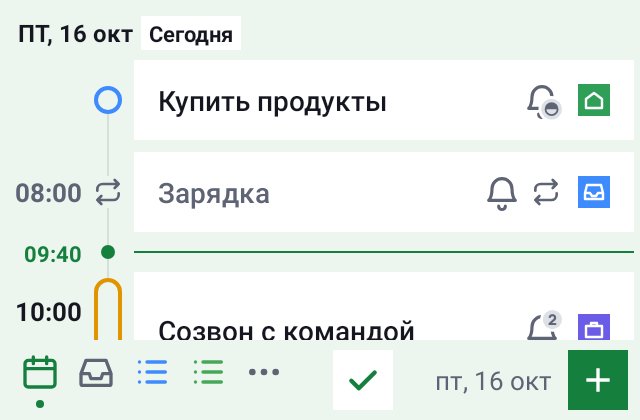
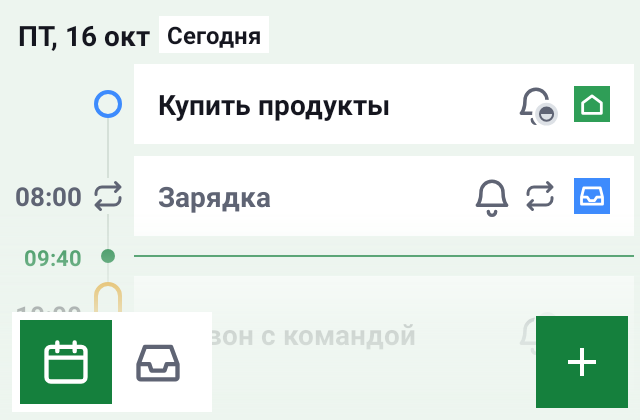
Итерация 25: нижняя панель и текст виджета (0.25.0)
- Панель поверх списка с переходом от прозрачного к фону; капсула «Все» / «Входящие» и «+»
- Центр панели открывает приложение; дата, «⋯» и вкладки списков убраны
- Названия задач жирнее, даты групп и иконки в плашках крупнее

Claude-Session: https://claude.ai/code/session_01QAFyQLGgofusGNVqbtBoAp

diff --git a/app/src/main/java/com/prostovasei/simpletasks/widget/TasksWidget.kt b/app/src/main/java/com/prostovasei/simpletasks/widget/TasksWidget.kt
@@ -36,6 +36,8 @@ import androidx.glance.layout.height
 import androidx.glance.layout.padding
 import androidx.glance.layout.size
 import androidx.glance.layout.width
+import androidx.glance.semantics.contentDescription
+import androidx.glance.semantics.semantics
 import androidx.glance.text.FontWeight
 import androidx.glance.text.Text
 import androidx.glance.text.TextAlign
@@ -72,17 +74,19 @@ import kotlin.math.roundToInt
 @Composable
 fun WidgetContent(model: WidgetModel, appWidgetId: Int, scrollable: Boolean = true, liveClock: Boolean = true) {
     val context = LocalContext.current
-    Column(
+    // Итерация 25: список идёт до самого низа, нижняя панель лежит поверх — сверху прозрачная, книзу цвета фона.
+    Box(
         modifier = GlanceModifier
             .fillMaxSize()
             .background(WidgetColors.background)
             .cornerRadius(RadiusTokens.XL.dp),
+        contentAlignment = Alignment.BottomCenter,
     ) {
         // Список доходит до самого правого края виджета: полоска прокрутки лежит у края, а не на плашках;
         // правое поле плашек — у них самих (DayBlock). Слева поле минимальное: время прижато к краю (итерация 20).
-        Box(GlanceModifier.fillMaxWidth().defaultWeight().padding(start = SizeTokens.WIDGET_LIST_EDGE.dp, top = SizeTokens.WIDGET_EDGE.dp)) {
+        Box(GlanceModifier.fillMaxSize().padding(start = SizeTokens.WIDGET_LIST_EDGE.dp, top = SizeTokens.WIDGET_EDGE.dp)) {
             if (model.isEmpty) {
-                Box(GlanceModifier.fillMaxSize(), contentAlignment = Alignment.Center) {
+                Box(GlanceModifier.fillMaxSize().padding(bottom = SizeTokens.WIDGET_FADE.dp), contentAlignment = Alignment.Center) {
                     Text(context.getString(R.string.widget_empty), style = TextStyle(color = WidgetColors.textSecondary, fontSize = 14.sp))
                 }
             } else {
@@ -90,16 +94,24 @@ fun WidgetContent(model: WidgetModel, appWidgetId: Int, scrollable: Boolean = tr
                 val blocks = model.days.filter { it.items.isNotEmpty() }
                 @Composable
                 fun Block(block: WidgetDayBlock) = DayBlock(block, isFirst = block == blocks.first(), model, days, liveClock)
+                // Место под панелью в конце списка: последние задачи можно докрутить выше неё.
+                val tail = @Composable { Spacer(GlanceModifier.fillMaxWidth().height(SizeTokens.WIDGET_FADE.dp)) }
                 if (scrollable) {
-                    LazyColumn(GlanceModifier.fillMaxSize()) { items(blocks, itemId = { it.day.id }) { Block(it) } }
+                    LazyColumn(GlanceModifier.fillMaxSize()) {
+                        items(blocks, itemId = { it.day.id }) { Block(it) }
+                        item(itemId = TAIL_ID) { tail() }
+                    }
                 } else {
                     Column(GlanceModifier.fillMaxSize()) { blocks.forEach { Block(it) } }
                 }
             }
         }
+        Box(GlanceModifier.fillMaxWidth().height(SizeTokens.WIDGET_FADE.dp).background(ImageProvider(R.drawable.widget_bar_fade))) {}
         BottomBar(model, appWidgetId)
     }
 }
+
+private const val TAIL_ID = Long.MIN_VALUE
 
 private val WidgetDay.id: Long
     get() = when (this) {
@@ -161,7 +173,8 @@ internal const val MAX_CHILDREN = 10
 private fun DayTitle(day: WidgetDay, today: LocalDate, isFirst: Boolean) {
     val title = widgetDayTitle(LocalContext.current, day, today)
     val color = if (day == WidgetDay.Overdue) WidgetColors.overdue else WidgetColors.textPrimary
-    val style = TextStyle(color = color, fontSize = 12.sp, fontWeight = FontWeight.Bold)
+    // Итерация 25 (вариант PM «А»): дата группы крупнее — 14 sp, метка «Сегодня» — 12 sp.
+    val style = TextStyle(color = color, fontSize = 14.sp, fontWeight = FontWeight.Bold)
     Row(
         modifier = GlanceModifier.fillMaxWidth().padding(
             start = SizeTokens.WIDGET_EDGE.dp,
@@ -179,7 +192,7 @@ private fun DayTitle(day: WidgetDay, today: LocalDate, isFirst: Boolean) {
                     .cornerRadius(RadiusTokens.SM.dp)
                     .padding(horizontal = SpacingTokens.XXS.dp, vertical = SizeTokens.HAIRLINE.dp),
             ) {
-                Text(title.relative, style = style.copy(fontSize = 11.sp), maxLines = 1)
+                Text(title.relative, style = style.copy(fontSize = 12.sp), maxLines = 1)
             }
         }
     }
@@ -228,7 +241,7 @@ private fun TimelineRow(row: WidgetRow.Task, line: Line, overdue: Boolean, filte
             ) {
                 Text(
                     item.title,
-                    style = TextStyle(color = textColor, fontSize = 14.sp, fontWeight = FontWeight.Medium),
+                    style = TextStyle(color = textColor, fontSize = 14.sp, fontWeight = FontWeight.Bold),
                     maxLines = 1,
                     modifier = GlanceModifier.defaultWeight(),
                 )
@@ -387,7 +400,7 @@ private fun MaskImage(mask: Bitmap, color: ColorProvider, size: Int) {
 private fun ListSquare(item: TaskItem) {
     val color = if (item.isInboxList) WidgetColors.inboxList else parseListColor(item.listColor)?.let { ColorProvider(it) } ?: WidgetColors.inactive
     Box(
-        modifier = GlanceModifier.size(SizeTokens.LIST_SQUARE.dp).background(color).cornerRadius(RadiusTokens.SM.dp),
+        modifier = GlanceModifier.size(SizeTokens.WIDGET_LIST_SQUARE.dp).background(color).cornerRadius(RadiusTokens.SM.dp),
         contentAlignment = Alignment.Center,
     ) {
         ListIcons.drawable(item.listIcon)?.let { icon ->
@@ -395,7 +408,7 @@ private fun ListSquare(item: TaskItem) {
                 ImageProvider(icon),
                 contentDescription = null,
                 colorFilter = ColorFilter.tint(WidgetColors.onListSquare),
-                modifier = GlanceModifier.size(SizeTokens.LIST_GLYPH.dp),
+                modifier = GlanceModifier.size(SizeTokens.WIDGET_LIST_GLYPH.dp),
             )
         }
     }
@@ -409,8 +422,8 @@ fun widgetCheckColors(priority: Priority): WidgetCheckColors = when (priority) {
 }
 
 /**
- * Нижняя строка (решение PM, итерация 09): слева вкладки списков — нажатие сразу переключает виджет, «⋯» открывает
- * окошко со всеми списками; в центре — открыть приложение; справа «пт, 16 окт» и «+».
+ * Нижняя строка (итерация 25, вариант PM «Г»): слева белая капсула-переключатель «Все» / «Входящие» (выбранный
+ * залит зелёным), справа «+»; всё место между ними — открыть приложение. Дата и «⋯» убраны.
  */
 @Composable
 private fun BottomBar(model: WidgetModel, appWidgetId: Int) {
@@ -419,48 +432,27 @@ private fun BottomBar(model: WidgetModel, appWidgetId: Int) {
         modifier = GlanceModifier.fillMaxWidth().height(SizeTokens.WIDGET_BAR.dp).padding(horizontal = SizeTokens.WIDGET_EDGE.dp),
         verticalAlignment = Alignment.CenterVertically,
     ) {
-        // Вкладки — отдельной группой: в Row виджета не больше 10 элементов (иначе «+» пропадает).
-        Row(verticalAlignment = Alignment.CenterVertically) {
-            model.tabs.forEach { tab ->
-                ListTab(
-                    icon = when (tab.filter) {
-                        WidgetFilter.All -> R.drawable.ic_widget_all
-                        WidgetFilter.Inbox -> R.drawable.ic_widget_inbox
-                        is WidgetFilter.ProjectList -> R.drawable.ic_widget_list
-                    },
-                    label = tab.name ?: context.getString(if (tab.filter == WidgetFilter.Inbox) R.string.inbox_list_name else R.string.widget_all),
-                    tint = tab.color?.let { parseListColor(it) }?.let { ColorProvider(it) },
-                    selected = tab.filter == model.filter,
-                    action = actionSendBroadcast(WidgetActions.switch(context, appWidgetId, tab.filter)),
+        Row(
+            modifier = GlanceModifier.background(WidgetColors.surface).cornerRadius(RadiusTokens.LG.dp).padding(SizeTokens.WIDGET_SWITCH_PAD.dp),
+            verticalAlignment = Alignment.CenterVertically,
+        ) {
+            listOf(WidgetFilter.All, WidgetFilter.Inbox).forEach { filter ->
+                SwitchTab(
+                    icon = if (filter == WidgetFilter.All) R.drawable.ic_widget_all else R.drawable.ic_widget_inbox,
+                    label = context.getString(if (filter == WidgetFilter.Inbox) R.string.inbox_list_name else R.string.widget_all),
+                    selected = filter == model.filter,
+                    action = actionSendBroadcast(WidgetActions.switch(context, appWidgetId, filter)),
                 )
             }
-            ListTab(
-                icon = R.drawable.ic_widget_more,
-                label = context.getString(R.string.widget_pick_list),
-                tint = null,
-                selected = false,
-                action = actionStartActivity(pickerIntent(context, appWidgetId)),
-            )
         }
-        Spacer(GlanceModifier.defaultWeight())
+        val openApp = context.getString(R.string.widget_open_app)
         Box(
             modifier = GlanceModifier
-                .size(SizeTokens.WIDGET_ADD.dp)
-                .background(WidgetColors.surface)
-                .cornerRadius(RadiusTokens.MD.dp)
-                .clickable(actionStartActivity(openAppIntent(context))),
-            contentAlignment = Alignment.Center,
-        ) {
-            Image(
-                ImageProvider(R.drawable.ic_widget_app),
-                contentDescription = context.getString(R.string.widget_open_app),
-                colorFilter = ColorFilter.tint(WidgetColors.accent),
-                modifier = GlanceModifier.size(SizeTokens.WIDGET_ADD_ICON.dp),
-            )
-        }
-        Spacer(GlanceModifier.defaultWeight())
-        Text(WidgetDates.withWeekday(model.today), style = TextStyle(color = WidgetColors.textSecondary, fontSize = 13.sp), maxLines = 1)
-        Spacer(GlanceModifier.width(SpacingTokens.XS.dp))
+                .defaultWeight()
+                .fillMaxHeight()
+                .clickable(actionStartActivity(openAppIntent(context)))
+                .semantics { contentDescription = openApp },
+        ) {}
         Box(
             modifier = GlanceModifier
                 .size(SizeTokens.WIDGET_ADD.dp)
@@ -479,31 +471,24 @@ private fun BottomBar(model: WidgetModel, appWidgetId: Int) {
     }
 }
 
-/** Вкладка: иконка (у своего списка — его цветом), у выбранной — синяя с точкой снизу. */
+/** Кнопка переключателя: выбранная залита зелёным с белой иконкой, другая — серая иконка на белом. */
 @Composable
-private fun ListTab(icon: Int, label: String, tint: ColorProvider?, selected: Boolean, action: Action) {
-    Column(
-        modifier = GlanceModifier.width(SizeTokens.WIDGET_TAB.dp).height(SizeTokens.WIDGET_BAR.dp).clickable(action),
-        horizontalAlignment = Alignment.CenterHorizontally,
-        verticalAlignment = Alignment.CenterVertically,
+private fun SwitchTab(icon: Int, label: String, selected: Boolean, action: Action) {
+    Box(
+        modifier = GlanceModifier
+            .width(SizeTokens.WIDGET_SWITCH_W.dp)
+            .height(SizeTokens.WIDGET_SWITCH_H.dp)
+            .background(if (selected) WidgetColors.accent else WidgetColors.surface)
+            .cornerRadius(RadiusTokens.MD.dp)
+            .clickable(action),
+        contentAlignment = Alignment.Center,
     ) {
         Image(
             ImageProvider(icon),
             contentDescription = label,
-            colorFilter = ColorFilter.tint(if (selected) WidgetColors.accent else tint ?: WidgetColors.textSecondary),
+            colorFilter = ColorFilter.tint(if (selected) WidgetColors.onAccent else WidgetColors.textSecondary),
             modifier = GlanceModifier.size(SizeTokens.WIDGET_TAB_ICON.dp),
         )
-        Spacer(GlanceModifier.height(SizeTokens.WIDGET_TAB_DOT.dp))
-        if (selected) {
-            Image(
-                ImageProvider(R.drawable.ic_widget_dot),
-                contentDescription = null,
-                colorFilter = ColorFilter.tint(WidgetColors.accent),
-                modifier = GlanceModifier.size(SizeTokens.WIDGET_TAB_DOT.dp),
-            )
-        } else {
-            Spacer(GlanceModifier.size(SizeTokens.WIDGET_TAB_DOT.dp))
-        }
     }
 }
 

diff --git a/app/src/main/java/com/prostovasei/simpletasks/designsystem/tokens/DimensionTokens.kt b/app/src/main/java/com/prostovasei/simpletasks/designsystem/tokens/DimensionTokens.kt
@@ -55,17 +55,21 @@ object SizeTokens {
     const val REMINDER_ICON = 18
     const val PICKER_MAX_HEIGHT = 440
 
-    /** Нижняя строка виджета: список, дата и «+». */
-    const val WIDGET_BAR = 40
+    /**
+     * Нижняя панель виджета (итерация 25, вариант PM «А + Г»): высота перехода от прозрачного к фону, строка кнопок,
+     * кнопка переключателя «Все» / «Входящие» и поле капсулы.
+     */
+    const val WIDGET_FADE = 104
+    const val WIDGET_BAR = 58
+    const val WIDGET_SWITCH_W = 46
+    const val WIDGET_SWITCH_H = 42
+    const val WIDGET_SWITCH_PAD = 4
 
     /** Кнопка «+» в нижней строке виджета. */
-    const val WIDGET_ADD = 30
-    const val WIDGET_ADD_ICON = 20
-
-    /** Вкладка списка внизу виджета: ширина, иконка и точка выбранной. */
-    const val WIDGET_TAB = 28
-    const val WIDGET_TAB_ICON = 20
-    const val WIDGET_TAB_DOT = 4
+    const val WIDGET_ADD = 46
+    const val WIDGET_ADD_ICON = 24
+    /** Иконки «Все» и «Входящие» в переключателе. */
+    const val WIDGET_TAB_ICON = 26
 
     /** Поля строки задачи внутри её плашки в виджете. */
     const val WIDGET_ROW_GAP = 4
@@ -92,10 +96,14 @@ object SizeTokens {
     const val WIDGET_NODE = 14
     const val WIDGET_PERIOD_STUB = 6
     const val WIDGET_NOW_DOT = 7
-    const val WIDGET_META_ICON = 16
+    const val WIDGET_META_ICON = 18
 
     /** Колокольчик напоминаний со значком в плашке виджета (итерация 23). */
-    const val WIDGET_REMINDER_ICON = 20
+    const val WIDGET_REMINDER_ICON = 22
+
+    /** Квадратик списка в плашке виджета и значок в нём (итерация 25 — крупнее, чем в приложении). */
+    const val WIDGET_LIST_SQUARE = 18
+    const val WIDGET_LIST_GLYPH = 14
 
     /** Щель между плашками — внутри строки (по 3 dp сверху и снизу), чтобы линия шкалы не рвалась. */
     const val WIDGET_CARD_INSET = 3

diff --git a/app/src/test/java/com/prostovasei/simpletasks/widget/WidgetUiTest.kt b/app/src/test/java/com/prostovasei/simpletasks/widget/WidgetUiTest.kt
@@ -64,9 +64,9 @@ class WidgetUiTest {
         setContext(context)
         provideComposable { WidgetContent(model, appWidgetId = 7) }
 
-        // Нижняя строка: вкладки списков, «⋯», приложение, «пт, 16 окт», «+»; числа задач нет.
-        listOf("Все", "Входящие", "Работа", "Другие списки", "Открыть приложение", "Новая задача").forEach { onNode(hasContentDescription(it)).assertExists() }
-        onNode(hasTextEqualTo("пт, 16 окт")).assertExists()
+        // Нижняя строка (итерация 25): «Все», «Входящие», открыть приложение и «+»; даты и «⋯» нет.
+        listOf("Все", "Входящие", "Открыть приложение", "Новая задача").forEach { onNode(hasContentDescription(it)).assertExists() }
+        onNode(hasTextEqualTo("пт, 16 окт")).assertDoesNotExist()
         onAllNodes(hasText("2")).assertCountEquals(0)
         // Подписи дней как в приложении: «ПТ, 16 окт» + метка «Сегодня», «СБ, 17 окт» + «Завтра», «ПН, 19 окт».
         onNode(hasTextEqualTo("Просрочено")).assertExists()
@@ -89,9 +89,9 @@ class WidgetUiTest {
         setContext(context)
         val tabs = listOf(WidgetTab(WidgetFilter.All), WidgetTab(WidgetFilter.Inbox), WidgetTab(WidgetFilter.ProjectList("p"), "Покупки", null))
         provideComposable { WidgetContent(WidgetModel(WidgetFilter.ProjectList("p"), "Покупки", today, emptyList(), tabs), appWidgetId = 7) }
-        onNode(hasContentDescription("Покупки")).assertExists()
         onNode(hasText("Задач нет")).assertExists()
-        onNode(hasTextEqualTo("пт, 16 окт")).assertExists()
+        // Итерация 25: даты внизу больше нет.
+        onNode(hasTextEqualTo("пт, 16 окт")).assertDoesNotExist()
     }
 
     @Test

diff --git a/app/src/test/java/com/prostovasei/simpletasks/widget/WidgetScreenshotTest.kt b/app/src/test/java/com/prostovasei/simpletasks/widget/WidgetScreenshotTest.kt
@@ -130,15 +130,21 @@ class WidgetScreenshotTest {
         if (this@descendants is android.view.ViewGroup) for (i in 0 until childCount) yieldAll(getChildAt(i).descendants())
     }
 
-    /** Настоящая картинка: в нижней строке все кнопки на месте (Glance отбрасывает детей Row сверх 10). */
+    /** Настоящая картинка: в нижней строке (итерация 25) только «Все», «Входящие», «открыть приложение» и «+». */
     @Test
     fun bottomBarKeepsAllButtons() {
         val views = runBlocking { Preview(model).compose(context, size = DpSize(320.dp, 420.dp)) }
         val root = views.apply(context, FrameLayout(context))
-        listOf("Все", "Входящие", "Работа", "Дом", "Другие списки", "Открыть приложение", "Новая задача").forEach { label ->
+        listOf("Все", "Входящие", "Открыть приложение", "Новая задача").forEach { label ->
             val found = ArrayList<View>()
             root.findViewsWithText(found, label, View.FIND_VIEWS_WITH_CONTENT_DESCRIPTION)
             assertEquals(label, 1, found.size)
+        }
+        // Вкладок своих списков и «Другие списки» больше нет.
+        listOf("Работа", "Другие списки").forEach { label ->
+            val found = ArrayList<View>()
+            root.findViewsWithText(found, label, View.FIND_VIEWS_WITH_CONTENT_DESCRIPTION)
+            assertEquals(label, 0, found.size)
         }
     }
 

diff --git a/app/src/test/java/com/prostovasei/simpletasks/widget/WidgetRendererTest.kt b/app/src/test/java/com/prostovasei/simpletasks/widget/WidgetRendererTest.kt
@@ -33,7 +33,7 @@ class WidgetRendererTest {
         val id = manager.createWidget(TasksWidgetReceiver::class.java, androidx.glance.appwidget.R.layout.glance_default_loading_layout)
         WidgetRenderer.render(context, id, "тест")
         val view = manager.getViewFor(id)
-        listOf("Все", "Входящие", "Другие списки", "Открыть приложение", "Новая задача").forEach {
+        listOf("Все", "Входящие", "Открыть приложение", "Новая задача").forEach {
             assertTrue(it, view.hasDescription(it))
         }
         assertTrue(WidgetLog.read(context).contains("отрисовка $id: all"))
